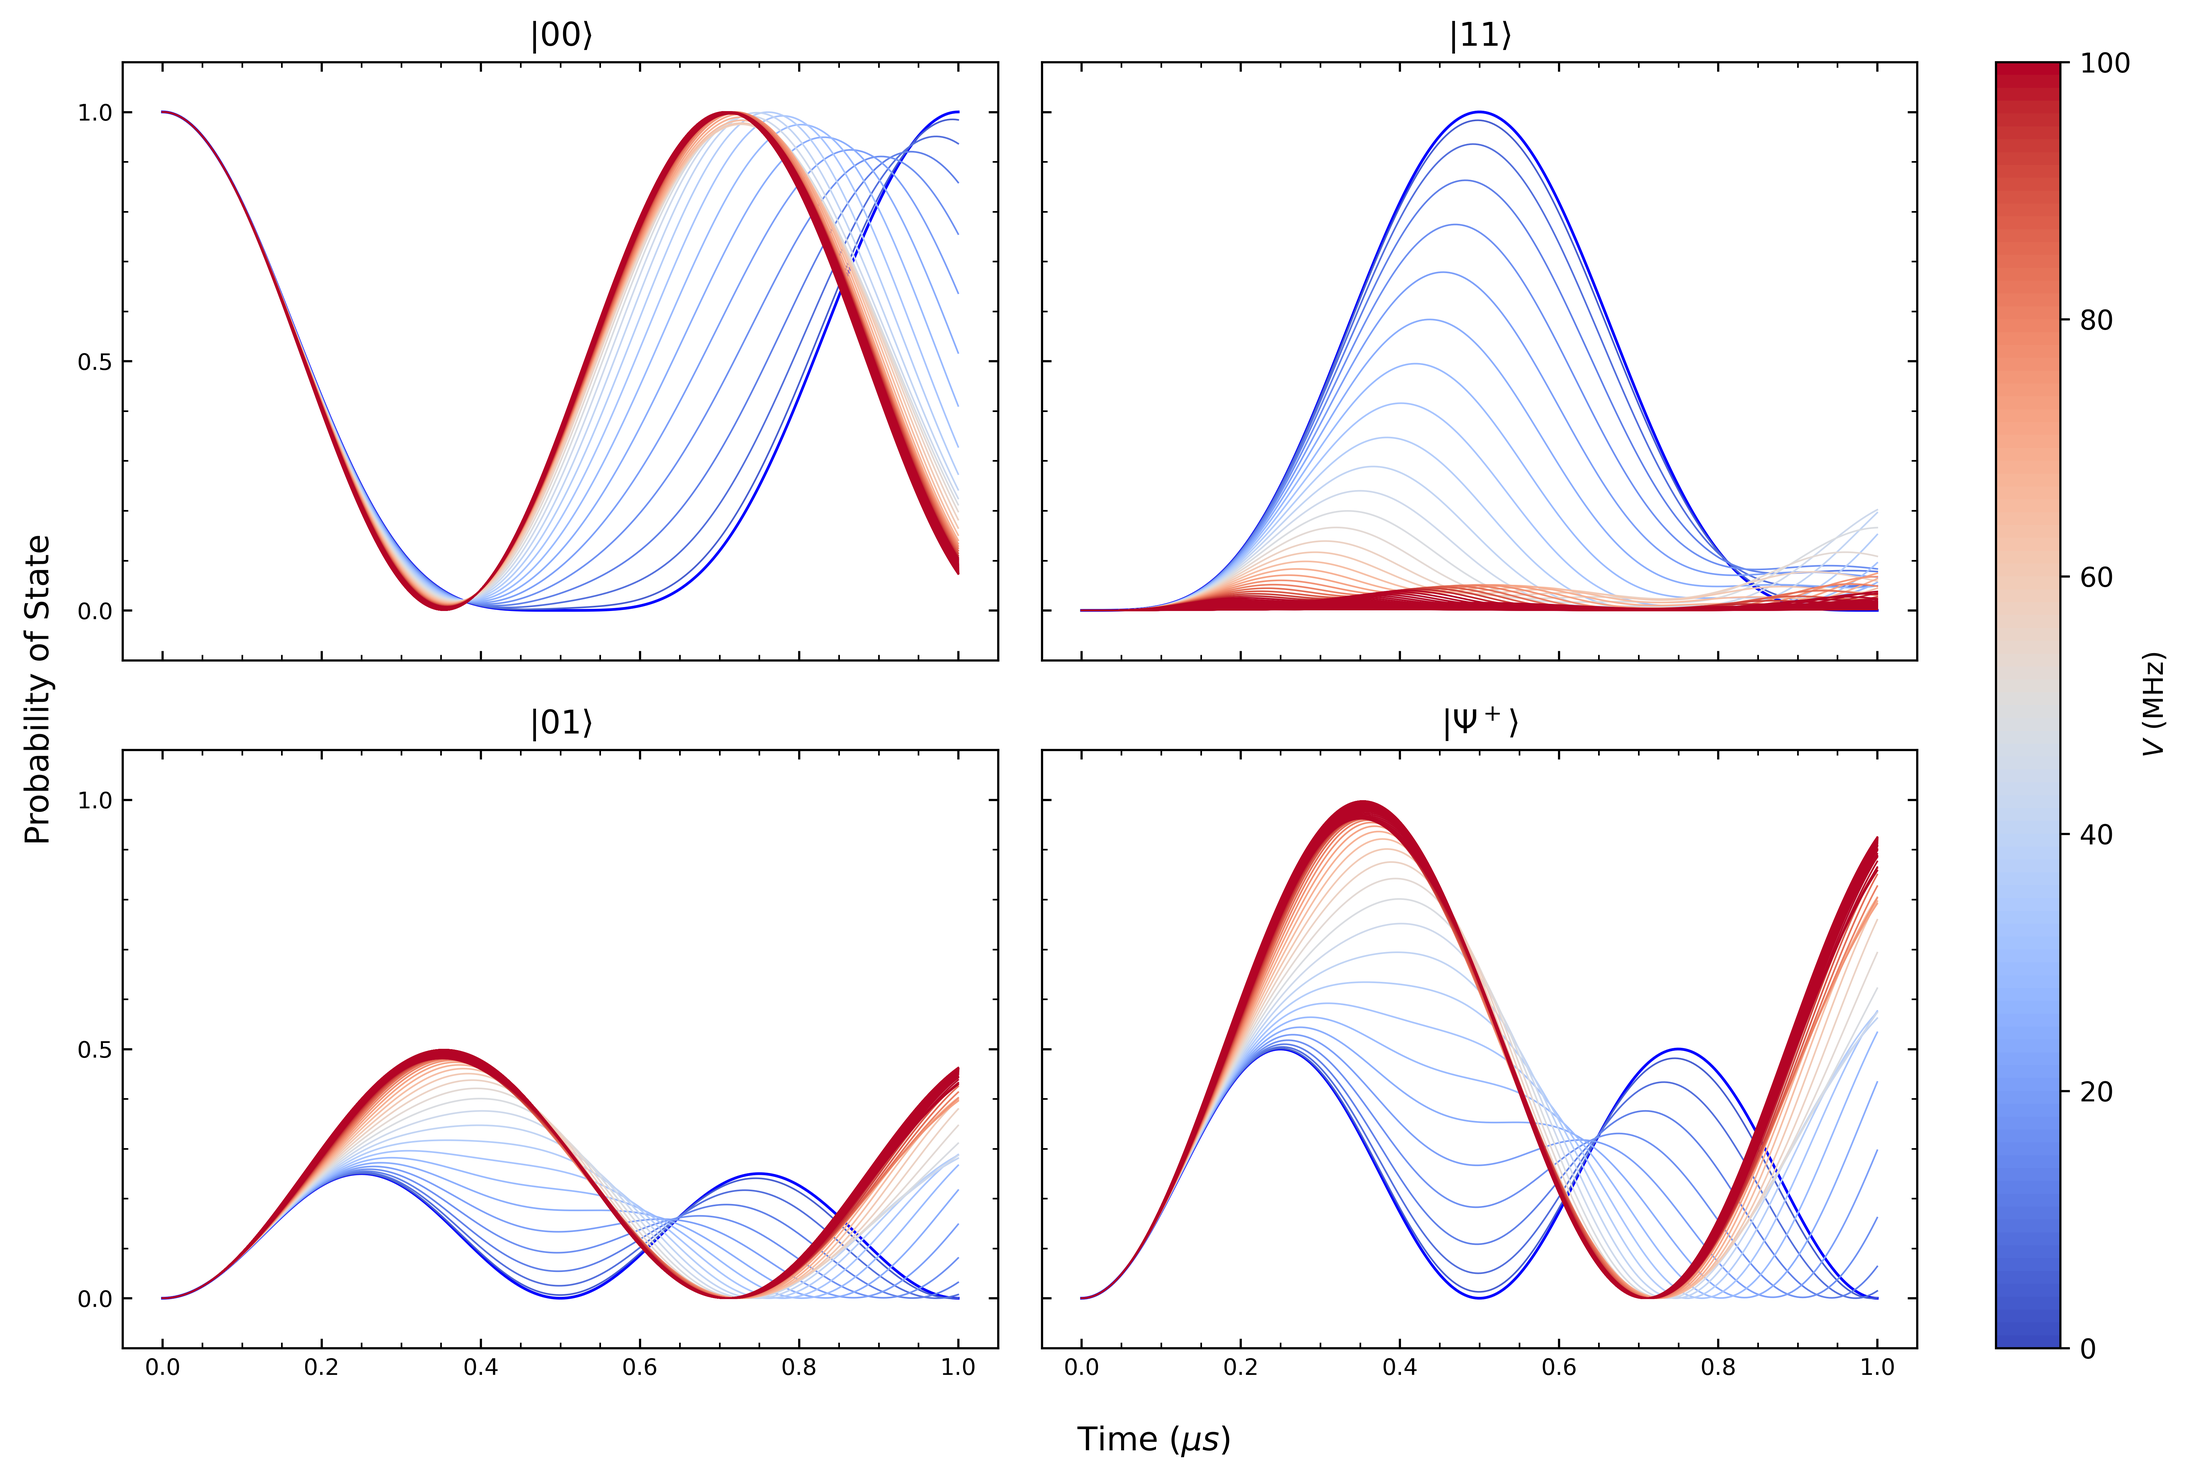
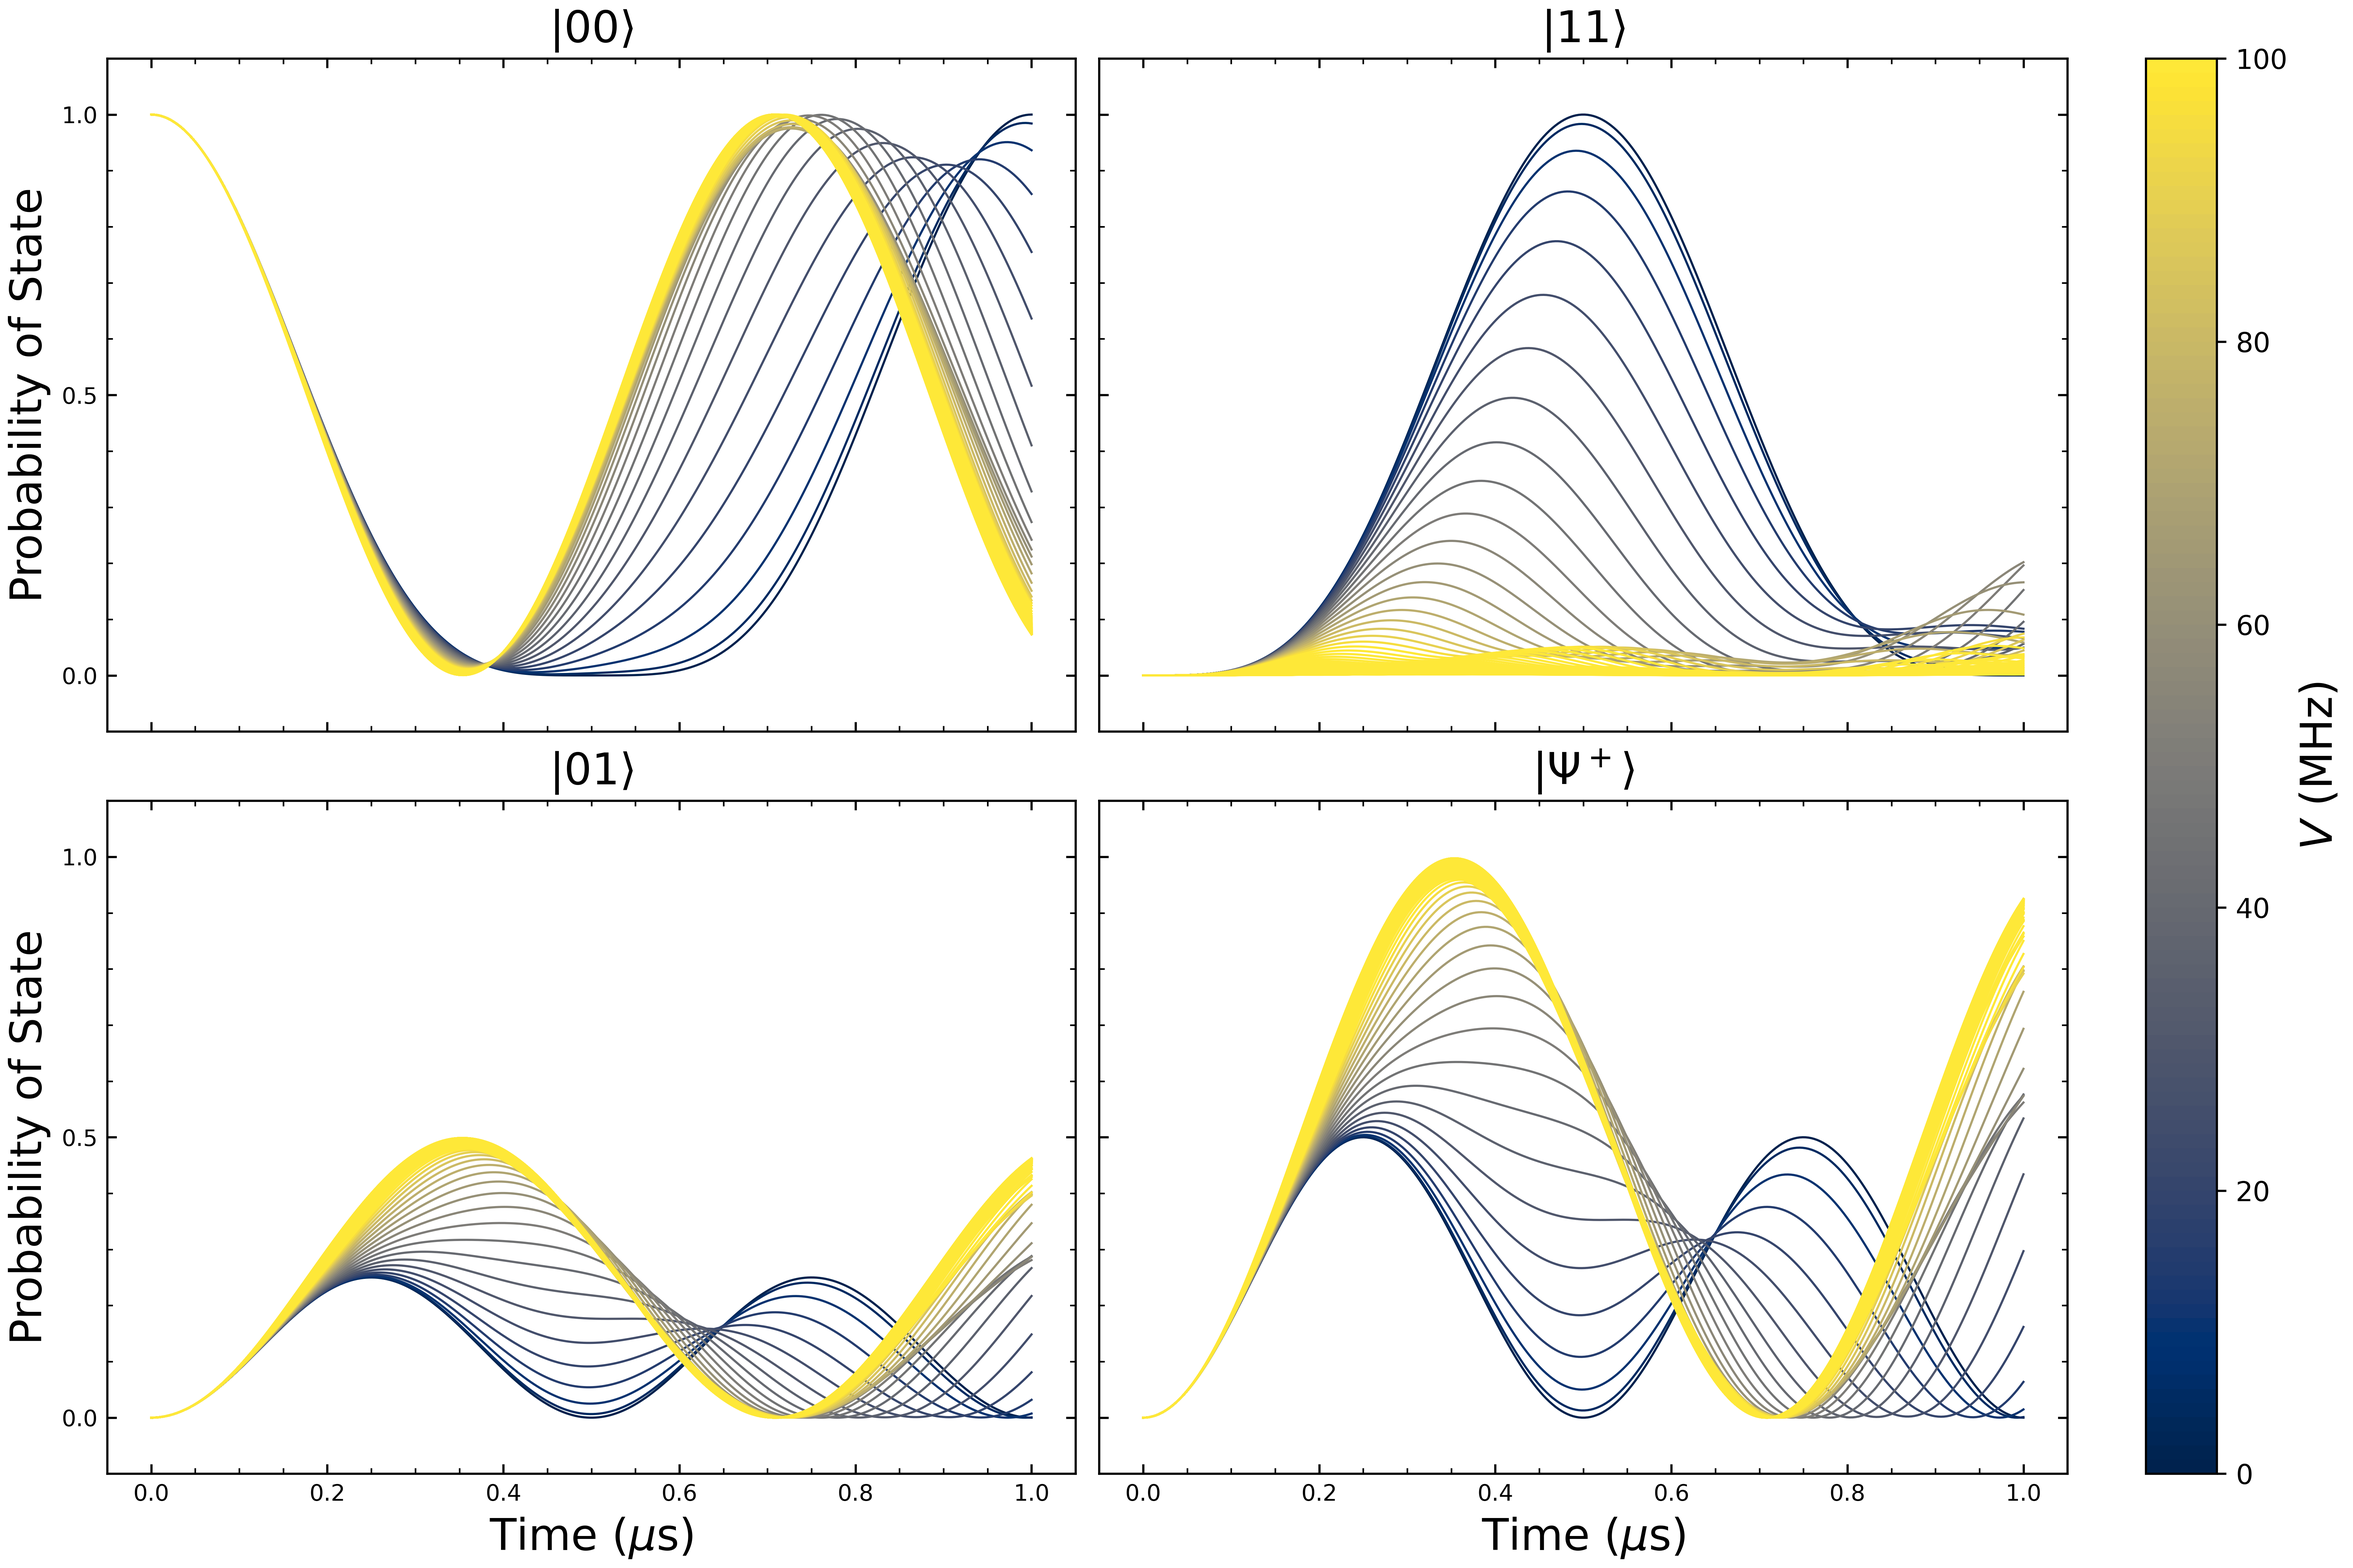
Hopefully complete for poster

diff --git a/TwoAtomsInLaserFieldTimeDepH.py b/TwoAtomsInLaserFieldTimeDepH.py
@@ -33,8 +33,8 @@ n_steps = 500
 times = np.linspace(t_0, t_max, n_steps)
 
 # Create data containers
-lin_detuning_t = helper.detuning_t_linear(times)
-cub_detuning_t = helper.detuning_t_cubic(times)
+lin_detuning_t = helper.detuning_t_linear(times, t_max)
+cub_detuning_t = helper.detuning_t_cubic(times, t_max)
 
 lin_bell_plus_probs_t = [] # [V_ind][t_ind]
 cub_bell_plus_probs_t = [] # [V_ind][t_ind]
@@ -54,16 +54,32 @@ for V in Vs:
         assert np.isclose(helper.calc_probability(cub_det_psi_t, cub_det_psi_t), 1.0)
 
         # Calculate the probability of being in the bell+ state
-        lin_bell_plus_probs_t[-1].append(helper.calc_probability(helper.bell_plus_cb, lin_det_psi_t))
-        cub_bell_plus_probs_t[-1].append(helper.calc_probability(helper.bell_plus_cb, cub_det_psi_t))
+        lin_bell_plus_probs_t[-1].append(np.array(helper.calc_probability(helper.bell_plus_cb, lin_det_psi_t)))
+        cub_bell_plus_probs_t[-1].append(np.array(helper.calc_probability(helper.bell_plus_cb, cub_det_psi_t)))
 
+lin_bell_plus_probs_t = np.array(lin_bell_plus_probs_t)
+cub_bell_plus_probs_t = np.array(cub_bell_plus_probs_t)
 
+print("max lin prob: ", lin_bell_plus_probs_t.max())
+print("max cub prob: ", cub_bell_plus_probs_t.max())
+
+lin_i, lin_j = np.unravel_index(np.argmax(lin_bell_plus_probs_t), lin_bell_plus_probs_t.shape)
+cub_i, cub_j = np.unravel_index(np.argmax(cub_bell_plus_probs_t), cub_bell_plus_probs_t.shape)
+
+print(f"({lin_i}, {lin_j})")
+print(f"({cub_i}, {cub_j})")
+
+print(lin_bell_plus_probs_t[lin_i, lin_j], f" --->> V={Vs[lin_i]/(2e6*np.pi)} & t={times[lin_j]*1e6}")
+print(cub_bell_plus_probs_t[cub_i, cub_j], f" --->> V={Vs[cub_i]/(2e6*np.pi)} & t={times[cub_j]*1e6}")
 
 # ************************** PLOTTING **************************
 
 
+fontsize = 16
+cmap='cividis'
+
 # Create subplot axes
-fig, axs = plt.subplots(3, 2, sharex=True, figsize = (14, 8))
+fig, axs = plt.subplots(3, 2, sharex=True, figsize = (12, 8), constrained_layout=True)
 
 ((lin_det_ax, cub_det_ax), (lin_scatt_ax, cub_scatt_ax), (lin_cmap_ax, cub_cmap_ax)) = axs
 
@@ -71,11 +87,16 @@ lin_det_ax.sharey(cub_det_ax)
 lin_cmap_ax.sharey(cub_cmap_ax)
 lin_scatt_ax.sharey(cub_scatt_ax)
 
+cub_det_ax.label_outer()
+cub_cmap_ax.label_outer()
+cub_scatt_ax.label_outer()
 
 # Convert units for plotting
 
-times *= 1e6    # Convert to micro seconds
-Vs *= 1e-6 / (2*np.pi)      # Convert to MHz
+times *= 1e6                        # Convert to micro seconds
+#Vs *= 1e-6 / (2*np.pi)              # Convert to MHz
+cub_detuning_t /= 1e6 * 2 * np.pi   # Convert to M rad s-1
+lin_detuning_t /= 1e6 * 2 * np.pi   # Convert to M rad s-1
 
 # Format line plots
 lin_scatt_ax.set_ylim(-0.1, 1.1)
@@ -93,7 +114,7 @@ cub_scatt_ax.minorticks_on()
 lin_scatt_ax.tick_params(which="minor", direction="in", top=True, right=True)
 cub_scatt_ax.tick_params(which="minor", direction="in", top=True, right=True)
 
-lin_scatt_ax.set_ylabel(rf"$|\Psi^+\rangle$ Probability")
+lin_scatt_ax.set_ylabel(r"$|\Psi^+\rangle$ Probability", fontsize=fontsize)
 
 # Format detuning plots
 lin_det_ax.tick_params(direction="in", top=True, right=True)
@@ -105,30 +126,44 @@ cub_det_ax.minorticks_on()
 lin_det_ax.tick_params(which="minor", direction="in", top=True, right=True)
 cub_det_ax.tick_params(which="minor", direction="in", top=True, right=True)
 
-lin_det_ax.set_ylabel(r"Detuning $\Omega / 2\pi$ (MHz)")
+lin_det_ax.set_ylabel(r"Detuning $\Delta$ (MHz)", fontsize=fontsize)
 
+# Format cmap plots
+lin_cmap_ax.set_ylabel(r"Interaction Strength"+"\n"+" $V$ (MHz)", fontsize=fontsize)
+lin_cmap_ax.set_xlabel(r"Time ($\mu$s)", fontsize=fontsize)
+cub_cmap_ax.set_xlabel(r"Time ($\mu$s)", fontsize=fontsize)
 
 # Plot detunings
-lin_det_ax.plot(times, lin_detuning_t, color='blue' if V==0 else 'red', alpha=1 if V==0 else 0.3, linewidth=1 if V==0 else 0.6)
-cub_det_ax.plot(times, cub_detuning_t, color='blue' if V==0 else 'red', alpha=1 if V==0 else 0.3, linewidth=1 if V==0 else 0.6)
+lin_det_ax.plot(times, lin_detuning_t, color='blue', alpha=1, linewidth=1)
+cub_det_ax.plot(times, cub_detuning_t, color='blue', alpha=1, linewidth=1)
 
 
 # Plot line plots
-for lin_bell_plus_prob_t, cub_bell_plus_prob_t in zip(lin_bell_plus_probs_t, cub_bell_plus_probs_t):
-    lin_scatt_ax.plot(times, lin_bell_plus_prob_t, color='red', alpha = 0.3, linewidth = 1)
-    cub_scatt_ax.plot(times, cub_bell_plus_prob_t, color='red', alpha = 0.3, linewidth = 1)
+Vs_to_plot = [99, 97, 95, 0]
+colours = ['red', 'green', 'blue', 'purple']
+linestyle = ['-', '--', '-.', ':']
+labels = [r"$V\ =\ 0\ $MHz", r"$V\ =\ 2\ $MHz", r"$V\ =\ 4\ $MHz", r"$V\ =\ 100\ $MHz"]
 
+for i, V_ind in enumerate(Vs_to_plot):
+    lin_scatt_ax.plot(times, lin_bell_plus_probs_t[V_ind], color=colours[i], alpha = 0.8, linewidth = 1.5, linestyle=linestyle[i], label=labels[i])
+    cub_scatt_ax.plot(times, cub_bell_plus_probs_t[V_ind], color=colours[i], alpha = 0.8, linewidth = 1.5, linestyle=linestyle[i], label=labels[i])
+
+lin_scatt_ax.legend(fontsize=fontsize-4)
+cub_scatt_ax.legend(fontsize=fontsize-4)
 
 # Plot colourmap plots
-lin_cmap_ax.imshow(lin_bell_plus_probs_t, cmap='coolwarm', interpolation='nearest', aspect='auto',
-                    extent=[np.real(times.min()), np.real(times.max()), np.real(Vs.min()), np.real(Vs.max())])
+lin_img = lin_cmap_ax.imshow(lin_bell_plus_probs_t, cmap=cmap, interpolation='nearest', aspect='auto', vmin=0, vmax=1,
+                                extent=[np.real(times.min()), np.real(times.max()), np.real(Vs.min()), np.real(Vs.max())])
 
-cub_cmap_ax.imshow(cub_bell_plus_probs_t, cmap='coolwarm', interpolation='nearest', aspect='auto',
-                    extent=[np.real(times.min()), np.real(times.max()), np.real(Vs.min()), np.real(Vs.max())])
+cub_img = cub_cmap_ax.imshow(cub_bell_plus_probs_t, cmap=cmap, interpolation='nearest', aspect='auto', vmin=0, vmax=1,
+                                extent=[np.real(times.min()), np.real(times.max()), np.real(Vs.min()), np.real(Vs.max())])
 
+
+cbar = fig.colorbar(lin_img, ax=[lin_cmap_ax, cub_cmap_ax],
+                    location='right', fraction=0.046, pad=0.04)
+cbar.set_label(r"$|\Psi^+\rangle$ Probability", fontsize=fontsize)
 
 
 # Save plot and display
-
-#plt.savefig("Time Dependent", dpi=600)
+plt.savefig("Time Dependent", dpi=600)
 plt.show()

diff --git a/TwoAtomsInLaserField.py b/TwoAtomsInLaserField.py
@@ -34,7 +34,7 @@ phi_L *= 2 * np.pi
 Vs = np.linspace(0, 100, 100)
 Vs *= 1e6
 
-display_params = True
+fontsize = 16
 
 # Calculate 2x2 Hamiltonian
 H_2 = np.zeros((2, 2), dtype=complex)
@@ -55,10 +55,10 @@ all_cb_vector_labels = [rf"$|00\rangle$", rf"$|01\rangle$", rf"$|11\rangle$", rf
 all_cb_vectors = [helper.zero_zero_cb, helper.zero_one_cb, helper.one_one_cb, helper.bell_plus_cb]
 
 # Create subplot axes
-fig, axs_md = plt.subplots(2, 2, sharex=True, sharey=True, figsize = (12, 8))
+fig, axs_md = plt.subplots(2, 2, sharex=True, sharey=True, figsize = (12, 8), constrained_layout=True)
 axs = [axs_md[0][0], axs_md[1][0], axs_md[0][1], axs_md[1][1]]
 
-cmap = plt.get_cmap('coolwarm', len(Vs))
+cmap = plt.get_cmap('cividis', len(Vs))
 
 for i, V in enumerate(Vs):
     H_4V = H_4.copy() + (np.diag([0, 0, 0, 2 * V]) * constants.hbar / 2)
@@ -86,10 +86,10 @@ for i, V in enumerate(Vs):
     # Format plot
     for ax, ax_label, y_data in zip(axs, all_cb_vector_labels, all_y_data):
 
-        ax.plot(times*1e6, y_data, color='blue' if V==0 else cmap(i*4), alpha=1 if V==0 else 1, linewidth=1 if V==0 else 0.6)
+        ax.plot(times*1e6, y_data, color=cmap(i*5), alpha=1, linewidth=0.8)
 
         ax.set_ylim(-0.1, 1.1)
-        ax.set_title(ax_label)
+        ax.set_title(ax_label, fontsize=fontsize)
 
         ax.set_yticks([0, 0.5, 1])
         ax.tick_params(direction="in", top=True, right=True, labelsize='small')
@@ -98,9 +98,11 @@ for i, V in enumerate(Vs):
         ax.tick_params(which="minor", direction="in", top=True, right=True)
 
 
-fig.supylabel("Probability of State")
-fig.supxlabel(r"Time ($\mu s$)")
-plt.subplots_adjust(left=0.062, right=0.9, top=0.9, bottom=0.08, wspace=0.05, hspace=0.15)
+axs_md[0][0].set_ylabel("Probability of State", fontsize=fontsize)
+axs_md[1][0].set_ylabel("Probability of State", fontsize=fontsize)
+
+axs_md[1][0].set_xlabel(r"Time ($\mu$s)", fontsize=fontsize)
+axs_md[1][1].set_xlabel(r"Time ($\mu$s)", fontsize=fontsize)
 
 # Normalization for V values
 norm = Normalize(vmin=Vs.min()*1e-6, vmax=Vs.max()*1e-6)
@@ -108,8 +110,9 @@ sm = ScalarMappable(cmap=cmap, norm=norm)
 sm.set_array([])  # required for colorbar
 
 # Add vertical colorbar to the right of all subplots
-fig.colorbar(sm, ax=axs, orientation='vertical', fraction=0.05, pad=0.04, label=r"$V\ (\mathrm{MHz})$")
+cbar = fig.colorbar(sm, ax=axs, orientation='vertical', fraction=0.05, pad=0.04)
+cbar.set_label(r"$V\ (\mathrm{MHz})$", fontsize=fontsize)
 
+# Save and show fig
 plt.savefig("Time Independent", dpi=600)
-
 plt.show()

diff --git a/helper.py b/helper.py
@@ -37,24 +37,26 @@ def solve_schrodinger_time_independent(H, psi_0, t):
 def calc_probability(wavefunction_value, measurement_vector):
     return abs(np.vdot(measurement_vector, wavefunction_value))**2
 
-def detuning_t_cubic(t):
+def detuning_t_cubic(t, t_max):
     Detuning_max = 2 * np.pi * 50 * 1e6 # Hz
-    t_max = 1e-6 # s
     return 8 * Detuning_max * ( (t - t_max/2) / t_max )**3
     #return 0 * t
 
-def detuning_t_linear(t):
+def detuning_t_linear(t, t_max):
     Detuning_max = 2 * np.pi * 50 * 1e6 # Hz
     t_max = 1e-6 # s
     return - Detuning_max + 2 * Detuning_max * t / t_max
 
+def detuning_t_zero(t, t_max):
+    return 0 * t
+
 # Calculate Hamiltonians at time T for different values of V
-def Hamiltonian_T(rabi_freq, phi_L, V, detuning_t_func, t):
+def Hamiltonian_T(rabi_freq, phi_L, V, detuning_t_func, t, t_max):
     # Calculate 2x2 Hamiltonian
     H_2 = np.zeros((2, 2), dtype=complex)
 
-    H_2[0][0] =   detuning_t_func(t)
-    H_2[1][1] = - detuning_t_func(t)
+    H_2[0][0] =   detuning_t_func(t, t_max)
+    H_2[1][1] = - detuning_t_func(t, t_max)
 
     H_2[0][1] = rabi_freq * np.exp( - 1j * phi_L )
     H_2[1][0] = rabi_freq * np.exp(   1j * phi_L )
@@ -80,7 +82,7 @@ def solve_schrodinger_time_dependent(rabi_freq, phi_L, V, detuning_func, psi_0, 
         psi_ts.append(psi_t)
 
         # Calculate Hamiltonian
-        H = Hamiltonian_T(rabi_freq, phi_L, V, detuning_func, time)
+        H = Hamiltonian_T(rabi_freq, phi_L, V, detuning_func, time, t_max)
 
         # Calculate eigenvalues and eigenvectors
         eigenvalues, eigenvectors = linalg.eigh(H)
